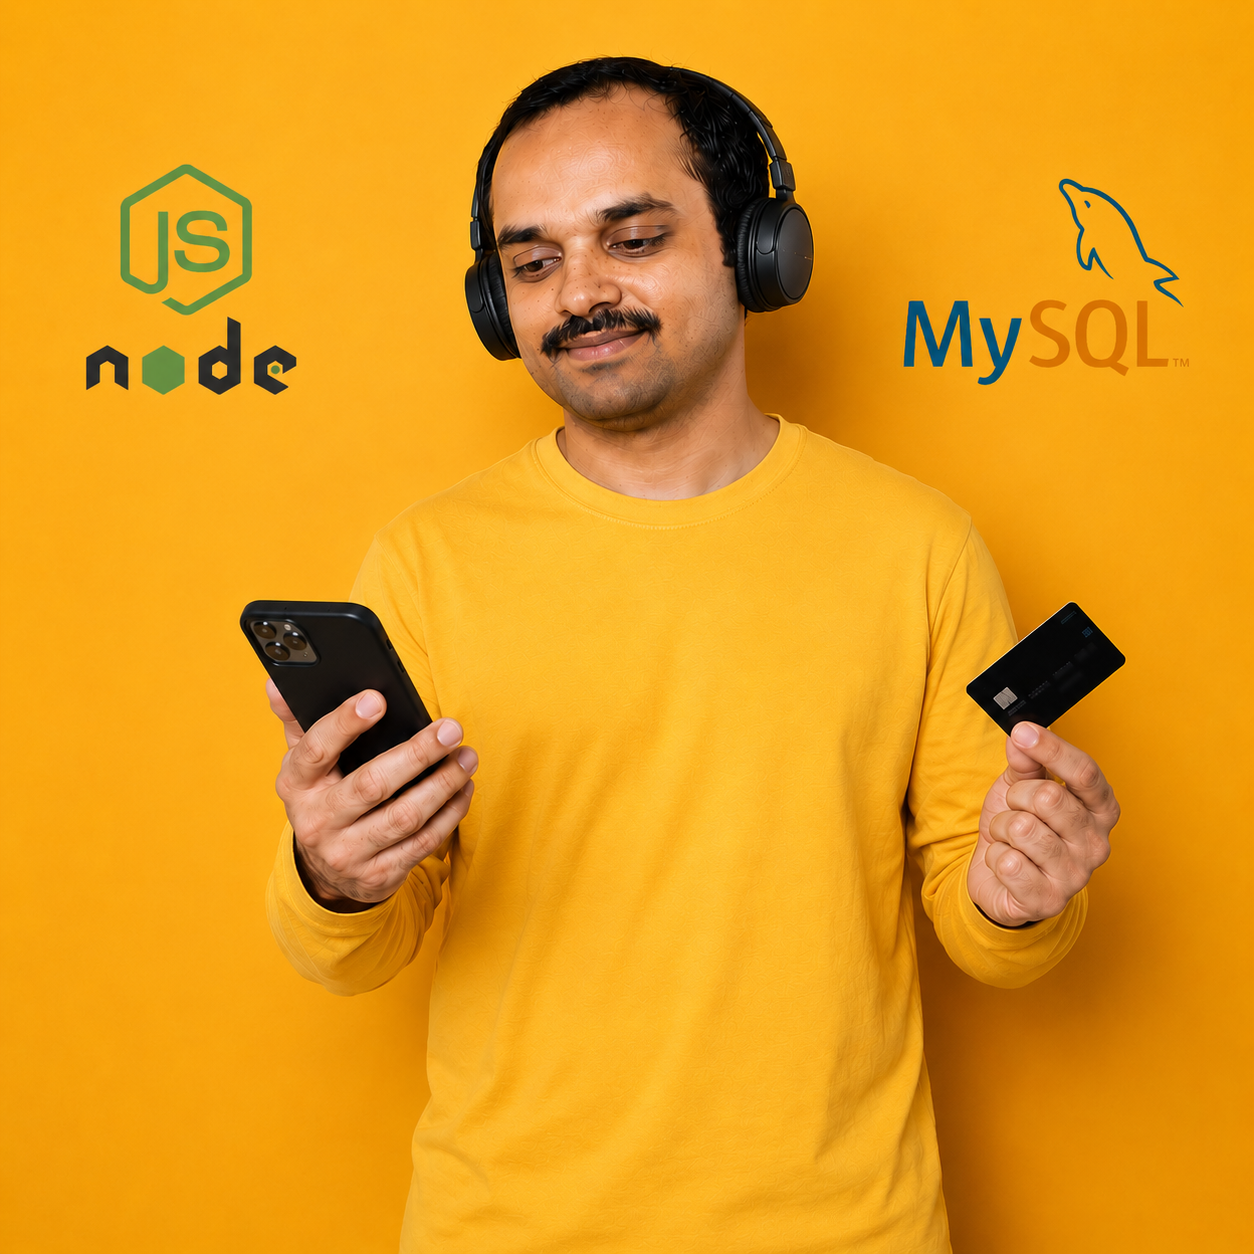
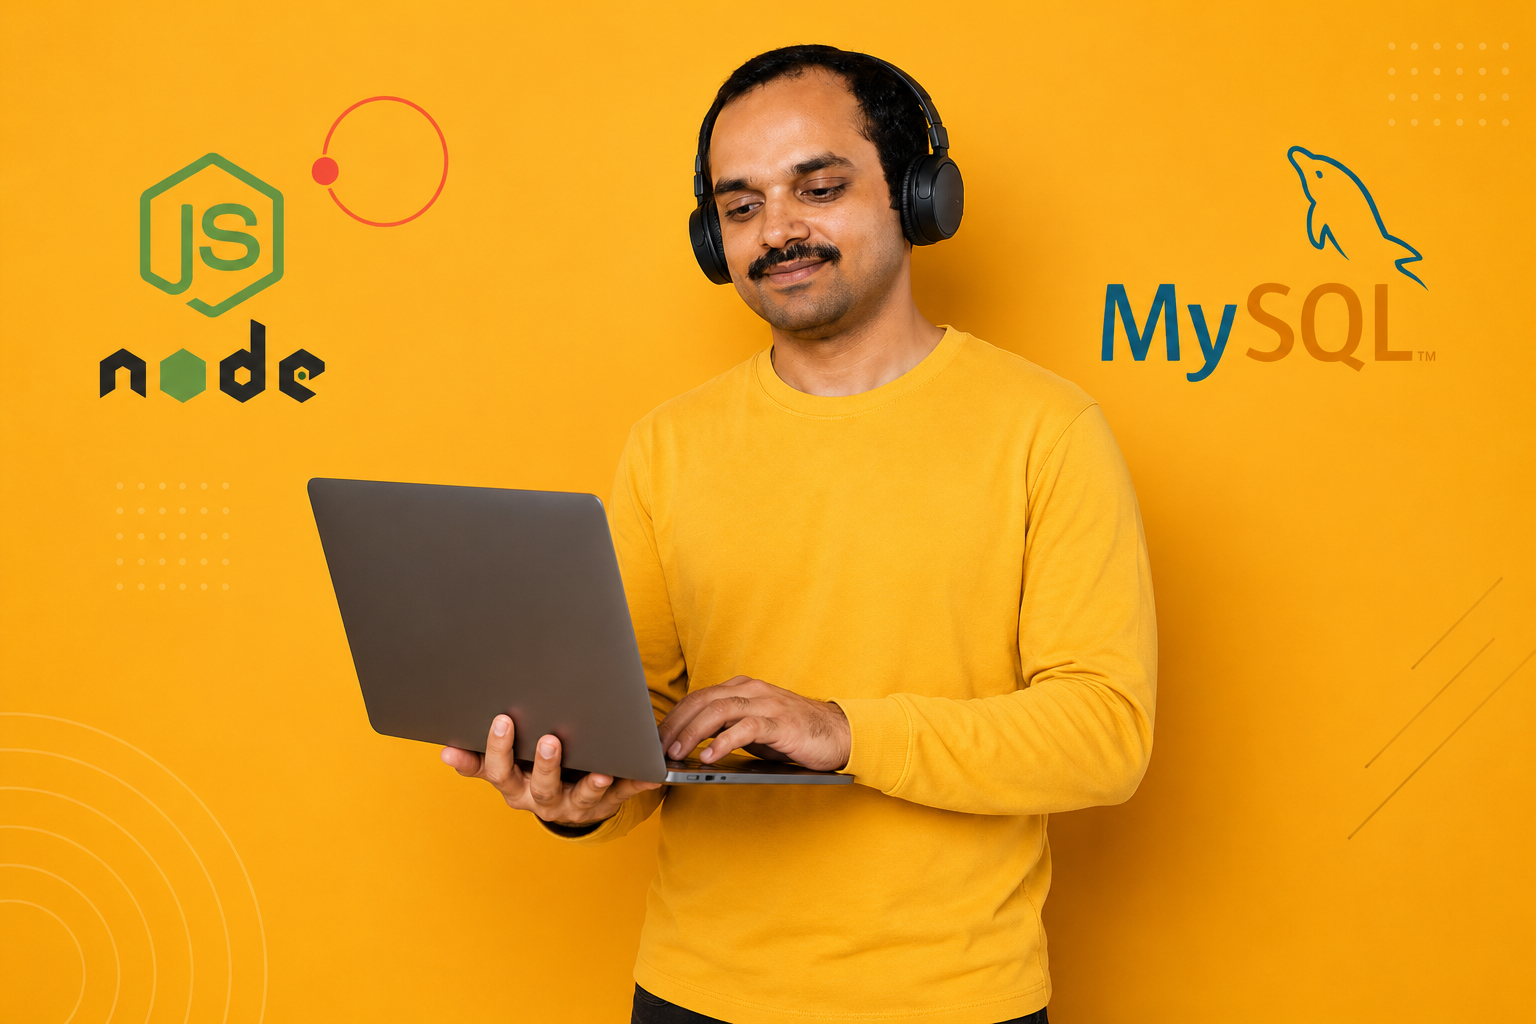
Update contact form functionality, enhance success/error messages, and update portfolio images and project details

diff --git a/src/components/Contact.js b/src/components/Contact.js
@@ -9,6 +9,7 @@ const Contact = () => {
   });
   const { name, email, message } = mailData;
   const [error, setError] = useState(null);
+  const [success, setSuccess] = useState(false);
   const onChange = (e) =>
     setMailData({ ...mailData, [e.target.name]: e.target.value });
   const onSubmit = (e) => {
@@ -18,29 +19,45 @@ const Contact = () => {
       clearError();
     } else {
       // https://www.emailjs.com/
+      const templateParams = {
+        to_email: "[email redacted]",
+        from_name: name,
+        name: name,
+        email: email,
+        message: message,
+      };
       emailjs
         .send(
-          "", // service id
-          "", // template id
-          mailData,
-          "" // public api
+          "service_r3gn9r3", // service id
+          "template_hi8gmx6", // template id
+          templateParams,
+          "F65e6eKRPSgfInlIv", // public api
         )
         .then(
           (response) => {
-            setError(false);
-            clearError();
+            setSuccess(true);
+            setError(null);
             setMailData({ name: "", email: "", message: "" });
+            clearSuccess();
           },
           (err) => {
+            setError(true);
+            setSuccess(false);
             console.log(err.text);
-          }
+            clearError();
+          },
         );
     }
   };
   const clearError = () => {
     setTimeout(() => {
       setError(null);
-    }, 2000);
+    }, 3000);
+  };
+  const clearSuccess = () => {
+    setTimeout(() => {
+      setSuccess(false);
+    }, 4000);
   };
   return (
     <div className="devman_tm_section" id="contact">
@@ -64,16 +81,34 @@ const Contact = () => {
                       className="returnmessage"
                       data-success="Your message has been received, We will contact you soon."
                     />
-                    <div
-                      className={error ? "empty_notice" : "returnmessage"}
-                      style={{ display: error == null ? "none" : "block" }}
-                    >
-                      <span>
-                        {error
-                          ? "Please Fill Required Fields"
-                          : "Your message has been received, We will contact you soon."}
-                      </span>
-                    </div>
+                    {error && (
+                      <div
+                        className="empty_notice"
+                        style={{ display: "block" }}
+                      >
+                        <span style={{ color: "#e74c3c", fontWeight: "600" }}>
+                          ❌ Please Fill Required Fields
+                        </span>
+                      </div>
+                    )}
+                    {success && (
+                      <div
+                        className="returnmessage"
+                        style={{
+                          display: "block",
+                          backgroundColor: "#27ae60",
+                          padding: "15px",
+                          borderRadius: "5px",
+                          color: "white",
+                          marginBottom: "20px",
+                        }}
+                      >
+                        <span style={{ fontWeight: "600" }}>
+                          ✅ Email sent successfully! Thank you for reaching
+                          out. I will get back to you soon.
+                        </span>
+                      </div>
+                    )}
                     <div className="first">
                       <ul>
                         <li>
@@ -123,7 +158,9 @@ const Contact = () => {
                       </div>
                       <div className="short">
                         <h3>Address</h3>
-                        <span>20, Somewhere in world</span>
+                        <span>
+                          Saulėtekio al. 11, LT-10223 Vilnius, Lithuania
+                        </span>
                       </div>
                     </div>
                   </li>
@@ -135,7 +172,9 @@ const Contact = () => {
                       <div className="short">
                         <h3>Email</h3>
                         <span>
-                          <a href="#">[email redacted]</a>
+                          <a href="mailto:[email redacted]">
+                            [email redacted]
+                          </a>
                         </span>
                       </div>
                     </div>
@@ -147,7 +186,7 @@ const Contact = () => {
                       </div>
                       <div className="short">
                         <h3>Phone</h3>
-                        <span>+123 456 7890</span>
+                        <span>+91 8123192799</span>
                       </div>
                     </div>
                   </li>

diff --git a/src/components/Portfolio.js b/src/components/Portfolio.js
@@ -3,7 +3,7 @@ import DetailsPopup from "./popup/DetailsPopup";
 
 const portfolioData = [
   {
-    img: "/img/portfolio/1.jpg",
+    img: "/img/portfolio/1.png",
     category: "Clinical Data Management",
     client: "IQVIA",
     date: "2020 – 2022",
@@ -21,7 +21,7 @@ const portfolioData = [
     ],
   },
   {
-    img: "/img/portfolio/2.jpg",
+    img: "/img/portfolio/2.png",
     category: "Financial Technology",
     client: "New Zealand Banking Consortium",
     date: "2021 – 2023",
@@ -39,7 +39,7 @@ const portfolioData = [
     ],
   },
   {
-    img: "/img/portfolio/3.jpg",
+    img: "/img/portfolio/3.png",
     category: "E-Commerce & Retail",
     client: "Aditya Birla Fashion & Retail",
     date: "2022 – 2024",
@@ -69,7 +69,11 @@ const Portfolio = () => {
 
   return (
     <Fragment>
-      <DetailsPopup open={popup} close={() => setPopup(false)} data={activeData} />
+      <DetailsPopup
+        open={popup}
+        close={() => setPopup(false)}
+        data={activeData}
+      />
       <div className="devman_tm_section" id="portfolio">
         <div className="devman_tm_portfolio">
           <div className="container">

diff --git a/src/components/Copyright.js b/src/components/Copyright.js
@@ -13,16 +13,7 @@ const Copyright = () => {
                 © {new Date().getFullYear()}
               </p>
             </div>
-            <div className="right wow fadeInRight" data-wow-duration="1s">
-              <ul>
-                <li>
-                  <a href="#">Terms &amp; Condition</a>
-                </li>
-                <li>
-                  <a href="#">Privacy Policy</a>
-                </li>
-              </ul>
-            </div>
+            <div className="right wow fadeInRight" data-wow-duration="1s"></div>
           </div>
         </div>
       </div>

diff --git a/src/components/CounterSection.js b/src/components/CounterSection.js
@@ -2,9 +2,9 @@ import { lineBreak } from "../utilits";
 import Counter from "./Counter";
 
 const counterData = [
-  { smallVlaue: true, value: 11, name: "Years of\nExperience" },
+  { smallVlaue: true, value: 12, name: "Years of\nExperience" },
   { smallVlaue: true, value: 6, name: "Companies\nWorked" },
-  { smallVlaue: true, value: 50, name: "Projects\nDelivered" },
+  { smallVlaue: true, value: 15, name: "Projects\nDelivered" },
 ];
 const CounterSection = () => {
   return (

diff --git a/src/components/Features.js b/src/components/Features.js
@@ -2,7 +2,7 @@ const features_list = [
   {
     title: "Full-Stack Expert",
     icon: "/img/svg/design.svg",
-    text: "11+ years building end-to-end web applications using React, Redux Toolkit, Node.js, TypeScript, and MySQL — from UI design to API architecture and database optimisation.",
+    text: "12+ years building end-to-end web applications using React, Redux Toolkit, Node.js, TypeScript, and MySQL — from UI design to API architecture and database optimisation.",
   },
   {
     title: "Cloud & DevOps",

diff --git a/src/components/Home.js b/src/components/Home.js
@@ -8,7 +8,7 @@ const homeData = {
   img: "/img/hero/profile.png",
   bio: "Accomplished Principal Engineer with 12+ years of experience in full-stack development, systems architecture, and engineering leadership across Wipro, IBM, Sonata & more.",
   numberOfProject: 15,
-  numberofyear: 11,
+  numberofyear: 12,
 };
 
 const Home = () => {

diff --git a/src/components/Process.js b/src/components/Process.js
@@ -11,7 +11,7 @@ const Process = () => {
                 <span>Driven by Excellence</span>
                 <h3>Engineering Solutions That Scale</h3>
                 <p>
-                  With 11+ years of proven expertise in full-stack development
+                  With 12+ years of proven expertise in full-stack development
                   and systems architecture, I deliver high-impact solutions that
                   improve operational efficiency by 25-40%. My approach combines
                   technical excellence with strategic leadership.

diff --git a/src/components/Skills.js b/src/components/Skills.js
@@ -14,7 +14,7 @@ const Skills = () => {
             <span>My Skills</span>
             <h3>Technologies I Work With</h3>
             <p>
-              11+ years of hands-on experience across the full stack — from
+              12+ years of hands-on experience across the full stack — from
               React frontends to Node.js APIs, cloud infrastructure, and DevOps.
             </p>
           </div>

diff --git a/src/layouts/Header.js b/src/layouts/Header.js
@@ -34,7 +34,7 @@ const Header = () => {
                 <a href="#contact">Contact</a>
               </li>
               <li className="download_cv">
-                <a href="/img/cv/1.jpg" download>
+                <a href="/Shashikanth_Hosur_Ramegowda.pdf" download>
                   Download CV
                 </a>
               </li>

diff --git a/src/layouts/MobileHeader.js b/src/layouts/MobileHeader.js
@@ -48,7 +48,7 @@ const MobileHeader = () => {
               <a href="#contact">Contact</a>
             </li>
             <li className="download_cv">
-              <a href="/img/cv/1.jpg" download>
+              <a href="/Shashikanth_Hosur_Ramegowda.pdf" download>
                 Download CV
               </a>
             </li>